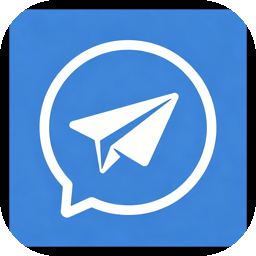
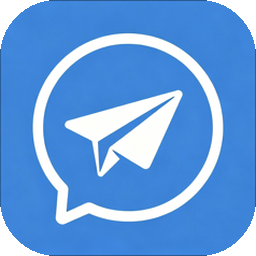
R4.50: 修复桌面图标黑边——裁除原图 9px 黑色描边后重做 22% 大圆角（升版 2.6.28）

diff --git a/server/src/releaseContent.js b/server/src/releaseContent.js
@@ -14,6 +14,16 @@ const about = {
 
 const announcements = [
   {
+    id: "release-2.6.28",
+    title: "Feigram 2.6.28 更新",
+    version: "2.6.28",
+    level: "success",
+    createdAt: "2026-09-24T22:43:49.000Z",
+    body: [
+"修复桌面图标四周的黑色描边：裁除原图自带的 9px 黑边后重新应用飞牛官方风格大圆角"
+    ].join("\n")
+  },
+  {
     id: "release-2.6.27",
     title: "Feigram 2.6.27 更新",
     version: "2.6.27",
@@ -54,21 +64,6 @@ const announcements = [
     createdAt: "2026-09-24T15:26:27.000Z",
     body: [
 "修复群组信息面板错位：点击会话标题查看群组信息时，面板现在以右侧固定抽屉展示（此前缩在窗口左下角被裁掉）"
-    ].join("\n")
-  },
-  {
-    id: "release-2.6.23",
-    title: "Feigram 2.6.23 更新",
-    version: "2.6.23",
-    level: "success",
-    createdAt: "2026-09-24T14:46:37.000Z",
-    body: [
-"下载列表与后台缓存列表的错误提示净化：只保留中文说明，英文技术链移入悬停提示",
-      "手动下载的任务现在也会进入「资源库」",
-      "后台缓存面板优化：标注下载引擎、保守模式下并发固定为 1 的说明与展示修正",
-      "账号管理：重新登录按钮移到退出按钮之前",
-      "桌面图标名称改为 feigram",
-      "修复网络抖动时 waitSession: connection dead / engine forcibly closed 被误判为终态失败"
     ].join("\n")
   },
 ];

diff --git a/docs/release-notes.md b/docs/release-notes.md
@@ -1,5 +1,9 @@
 # Feigram Public 发布说明
 
+## 版本 2.6.28
+
+- 修复桌面图标四周的黑色描边：裁除原图自带的 9px 黑边后重新应用飞牛官方风格大圆角
+
 ## 版本 2.6.27
 
 - 后台缓存列表：已完成的任务自动移出列表（在「资源库」查看），列表与角标只显示进行中的任务
